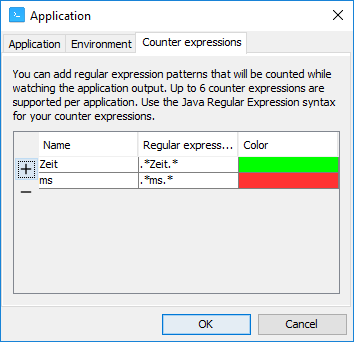
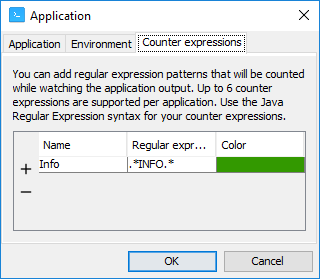
README Dokumentation

diff --git a/README.MD b/README.MD
@@ -97,3 +97,7 @@ The output of `std\out` and `std\err` of any started application is captured by 
 In the above tab you can add a counter expression by specifying a name, a [Java Regular Expression](https://docs.oracle.com/javase/9/docs/api/java/util/regex/Pattern.html) and a color to easily recover the counter in the view.
 
 The first 6 counter expressions will be displayed in the log file overview. The whole set of counter expressions will be represented by a button in the toolbar. To reset a counter expression click on the corresponding button.
+
+![alt text](etc/screenshots/07.png)
+
+The above screenshot shows the overview window with an active counter expression watching the output for the string `INFO`. The overview shows a little circle showing the current number of matches. The button in the toolbar shows the current number of matches as well as the name of this counter expression.
